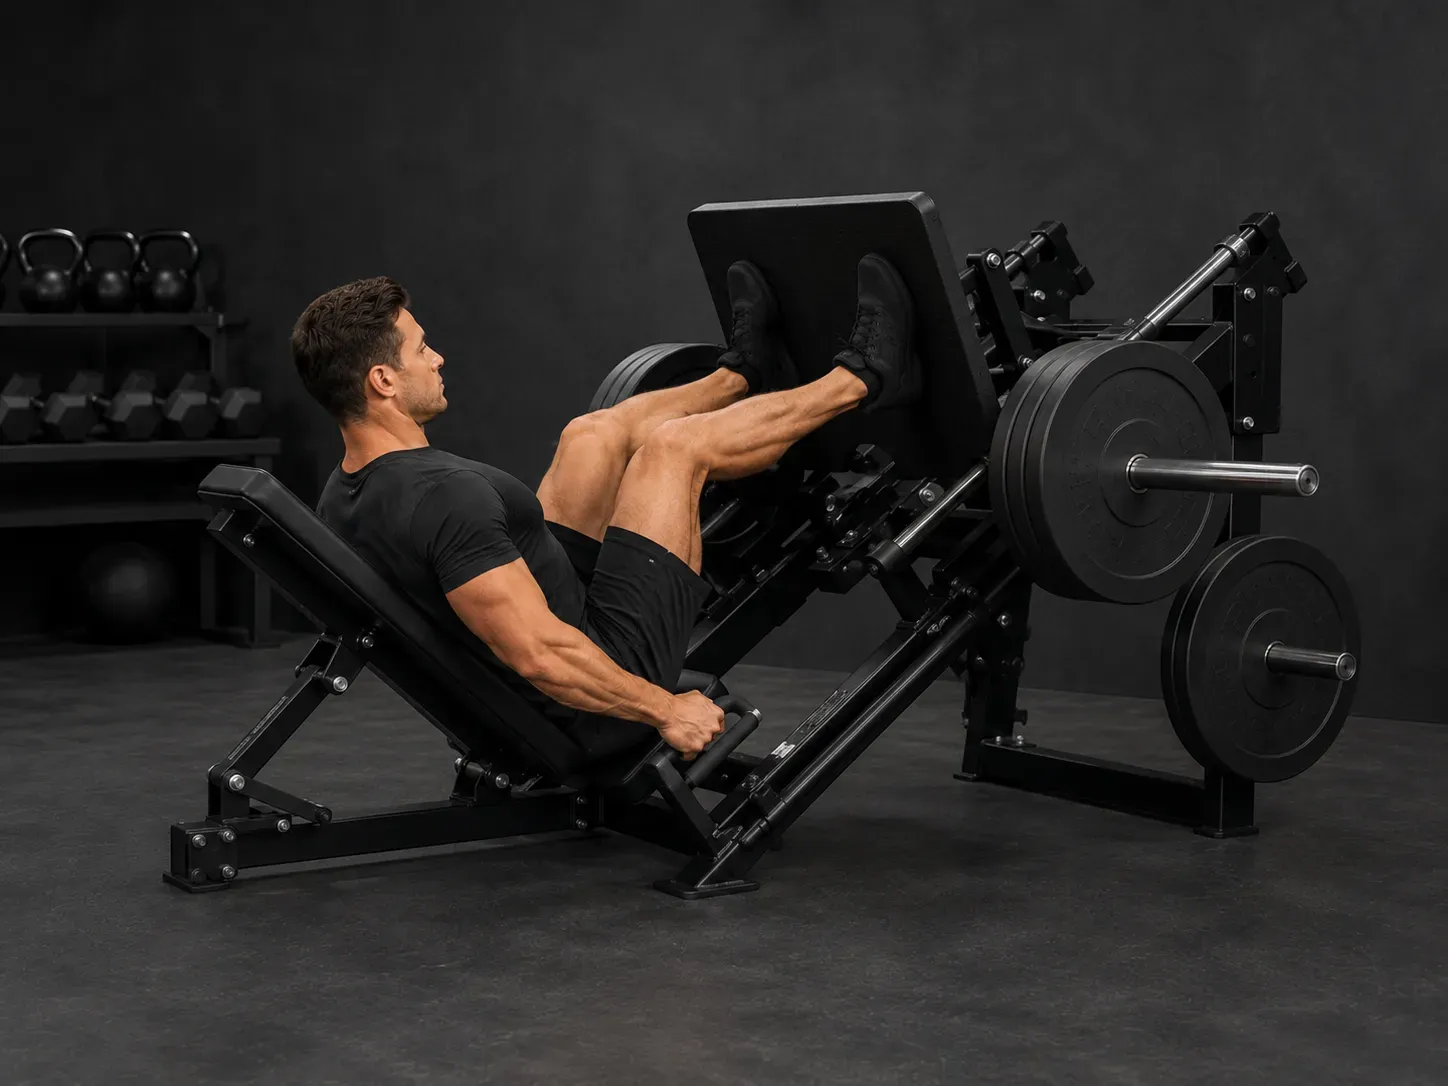
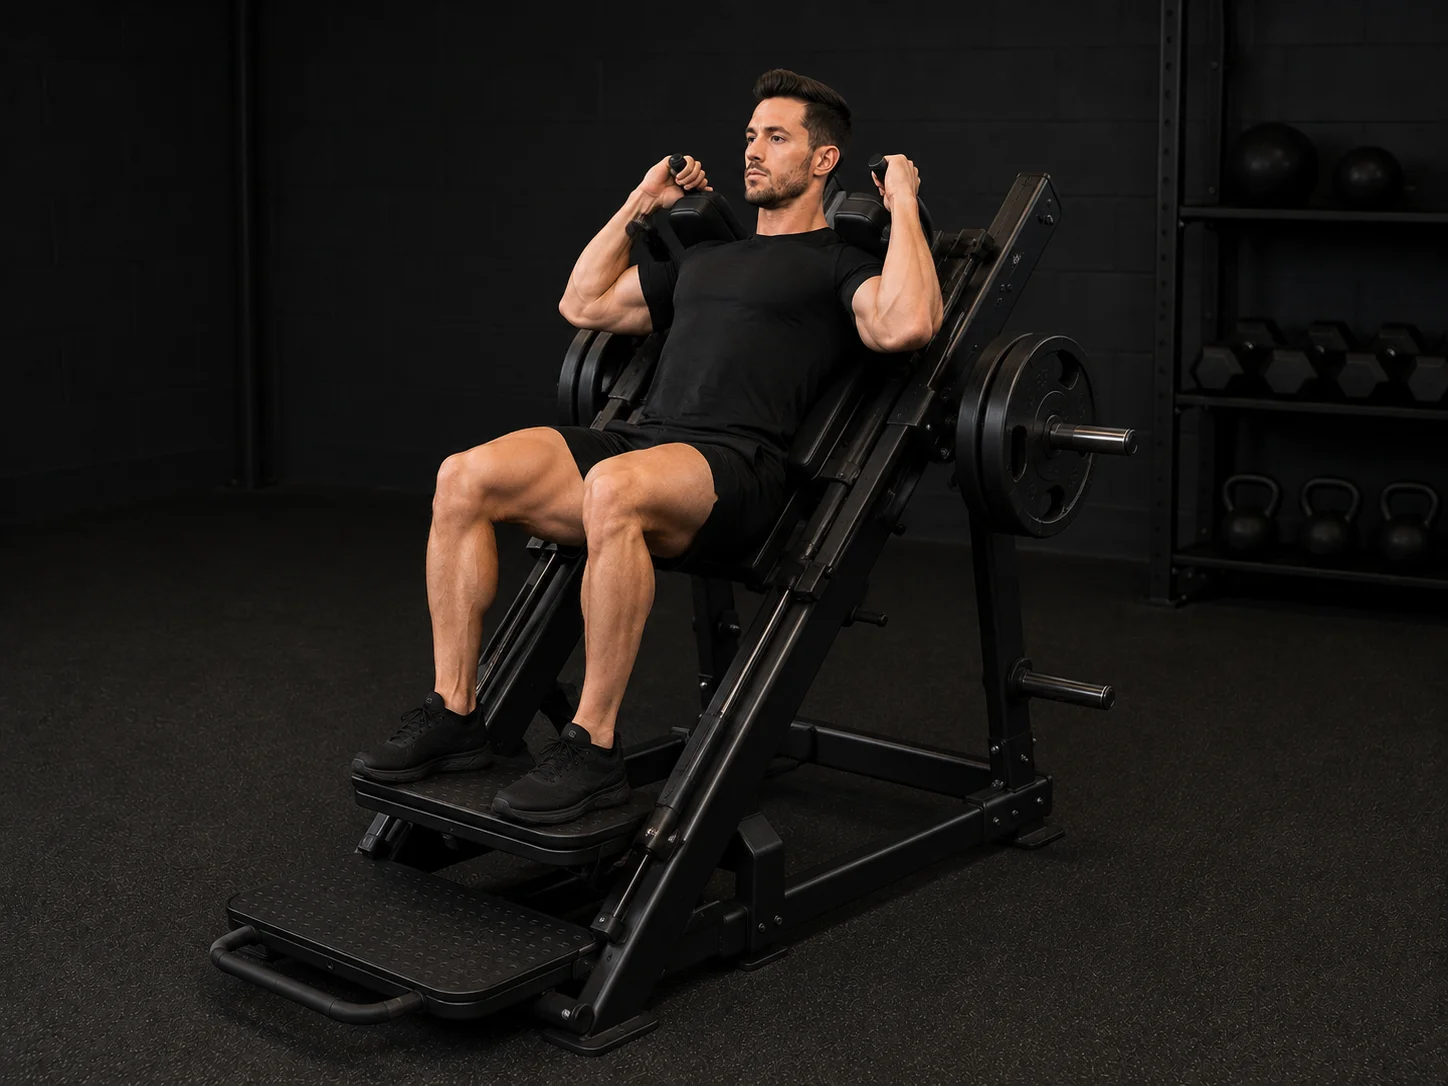
fix: replace duplicate hack squat exercise image
🤖 Generated with Codebuff

diff --git a/test/exercise-naming.test.ts b/test/exercise-naming.test.ts
@@ -1,5 +1,6 @@
 import { test } from "node:test";
 import assert from "node:assert/strict";
+import { createHash } from "node:crypto";
 import { existsSync, readFileSync } from "node:fs";
 import { dirname, join, resolve } from "node:path";
 import { fileURLToPath } from "node:url";
@@ -238,6 +239,39 @@ function isGenuineWebP(buffer: Buffer): boolean {
     && buffer.toString("ascii", 8, 12) === "WEBP";
 }
 
+// Parses the canonical width/height straight from the WebP container header,
+// so tests never depend on a native image decoder. Handles the three chunk
+// layouts (VP8 lossy, VP8L lossless, VP8X extended).
+function webpDimensions(buffer: Buffer): { width: number; height: number } | null {
+  if (!isGenuineWebP(buffer)) return null;
+  const chunk = buffer.toString("ascii", 12, 16);
+  if (chunk === "VP8 ") {
+    // Key-frame header: 3-byte start code at offset 20, then 4 bytes holding
+    // the 14-bit width and height (little-endian).
+    const width = (buffer[26] | ((buffer[27] & 0x3f) << 8)) & 0x3fff;
+    const height = (buffer[28] | ((buffer[29] & 0x3f) << 8)) & 0x3fff;
+    return { width, height };
+  }
+  if (chunk === "VP8L") {
+    // 0x2f signature at offset 20, then 4 bytes encoding (width - 1) and
+    // (height - 1) as 14 bits each.
+    const b1 = buffer[21];
+    const b2 = buffer[22];
+    const b3 = buffer[23];
+    const b4 = buffer[24];
+    const width = (b1 | ((b2 & 0x3f) << 8)) + 1;
+    const height = (((b2 >> 6) | (b3 << 2) | ((b4 & 0x0f) << 10))) + 1;
+    return { width, height };
+  }
+  if (chunk === "VP8X") {
+    // Canvas size (minus 1) as three little-endian bytes each.
+    const width = 1 + (buffer[24] | (buffer[25] << 8) | (buffer[26] << 16));
+    const height = 1 + (buffer[27] | (buffer[28] << 8) | (buffer[29] << 16));
+    return { width, height };
+  }
+  return null;
+}
+
 test("all 78 built-ins have non-empty imageUrl under /exercises/", () => {
   assert.equal(builtInExercises.length, 78);
   for (const item of builtInExercises) {
@@ -260,6 +294,28 @@ test("all 78 referenced files are genuine WebP (RIFF…WEBP)", () => {
     const buffer = readFileSync(imageAssetPath(slug));
     assert.ok(isGenuineWebP(buffer), `${slug} is not a genuine WebP file`);
   }
+});
+
+test("all 78 referenced images are canonical 1448×1086 (4:3)", () => {
+  for (const item of builtInExercises) {
+    const slug = item.id.slice("builtin-".length);
+    const dimensions = webpDimensions(readFileSync(imageAssetPath(slug)));
+    assert.ok(dimensions, `${slug} has an unrecognised WebP header`);
+    assert.equal(dimensions?.width, 1448, `${slug} width is not 1448`);
+    assert.equal(dimensions?.height, 1086, `${slug} height is not 1086`);
+  }
+});
+
+test("no two distinct built-ins share identical image content", () => {
+  const byHash = new Map<string, string>();
+  for (const item of builtInExercises) {
+    const slug = item.id.slice("builtin-".length);
+    const hash = createHash("sha256").update(readFileSync(imageAssetPath(slug))).digest("hex");
+    const other = byHash.get(hash);
+    assert.equal(other, undefined, `${item.name} duplicates the image of ${other ?? "?"} (${hash})`);
+    byHash.set(hash, item.name);
+  }
+  assert.equal(byHash.size, builtInExercises.length, "expected one distinct image per built-in");
 });
 
 test("imageUrl propagates through programme helpers for every built-in", () => {
